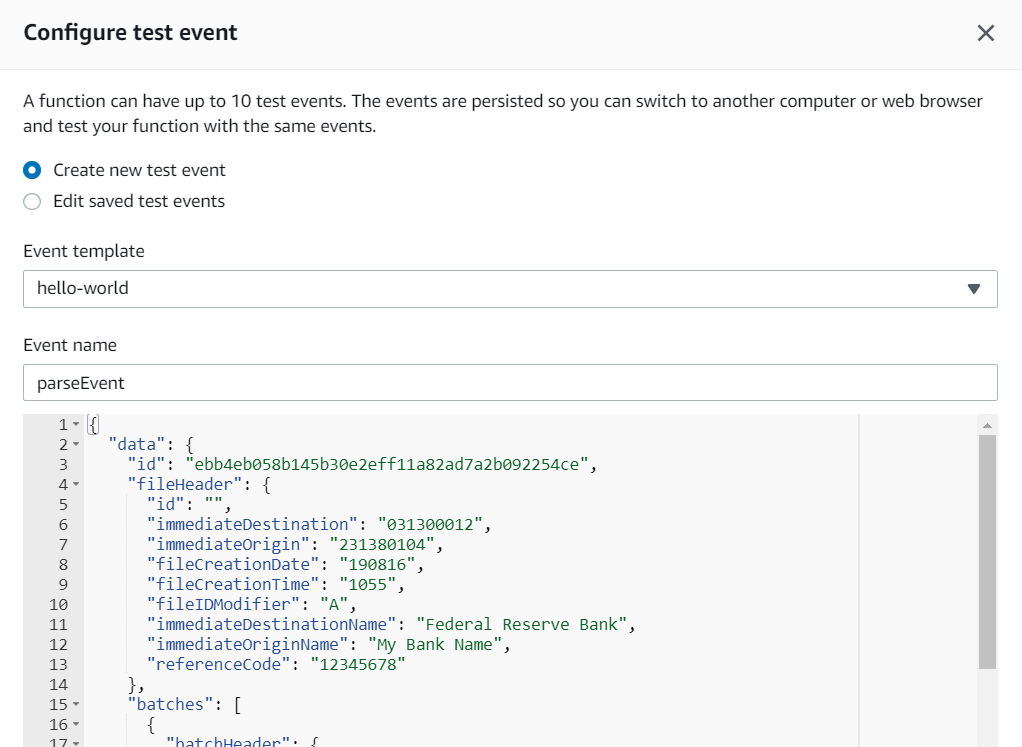
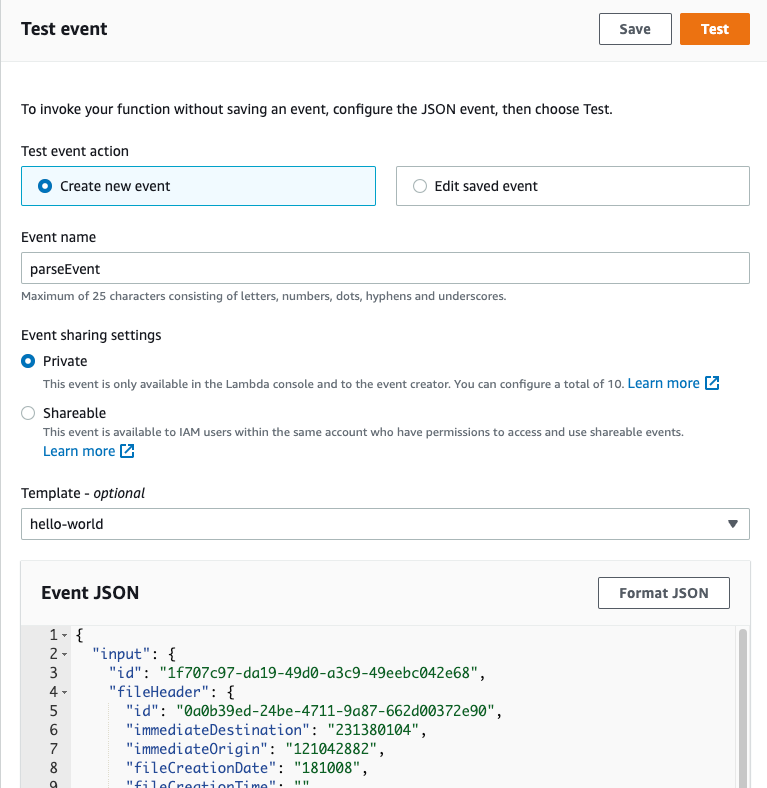
docs: clarified lambda_json_to_nacha example
- response from Lambda is stringified; wasn't obvious before this change

diff --git a/docs/aws/lambda/json_to_nacha/lambda_json_to_nacha.md b/docs/aws/lambda/json_to_nacha/lambda_json_to_nacha.md
@@ -23,15 +23,18 @@ package main
 
 import (
 	"bytes"
-	"context"
 
 	"github.com/aws/aws-lambda-go/lambda"
 	"github.com/moov-io/ach"
 	"github.com/moov-io/base"
 )
 
-type JsonParseEvent struct {
-	Json ach.File `json:"data"`
+type JsonRequest struct {
+	Json ach.File `json:"input"`
+}
+
+type JsonResponse struct {
+	Message string `json:"output"`
 }
 
 func main() {
@@ -39,9 +42,9 @@ func main() {
 }
 
 // logic to be executed when lambda starts goes here
-func HandleRequest(ctx context.Context, event JsonParseEvent) (string, error) {
+func HandleRequest(event JsonRequest) (JsonResponse, error) {
 
-	// get file from lambda event, it has already been marshaled from json to ach.File by Go
+	// get file from lambda event, it has already been marshalled from json to ach.File by Go
 	file := event.Json
 
 	// set file ID
@@ -50,7 +53,7 @@ func HandleRequest(ctx context.Context, event JsonParseEvent) (string, error) {
 	// validate parsed file
 	err := file.Validate()
 	if err != nil {
-		return "", err
+		return JsonResponse{Message: ""}, err
 	}
 
 	// create buffer to contain NACHA text
@@ -58,26 +61,28 @@ func HandleRequest(ctx context.Context, event JsonParseEvent) (string, error) {
 
 	// write ach.File to buffer
 	err = ach.NewWriter(buf).Write(&file)
-	if err != nil {
-		return buf.String(), err
-	}
 
-	// get NACHA text from buffer
-	parseRes := buf.String()
-
-	return parseRes, err
+	// marshal response to lambda as json
+	return JsonResponse{Message: buf.String()}, err
 }
 ```
 
 *`main()`* is invoked when the lambda is triggered <br/>
 *`HandleRequest()`* is the callback containing the business logic and accepts a lambda event as a parameter with the shape:
-```
+```json
 {
-    "data": { ...JSON representing ACH file }
+    "input": { ...JSON representing ACH file }
 }
 ```
-`JsonParseEvent` mirrors this shape and makes the contents accessible in `HandleRequest()`. This event can be changed to fit
-your needs, all you need to do is update the `JsonParseEvent` struct and make sure the trigger for this lambda is passing in the expected event.
+`JsonRequest` mirrors this shape and makes the contents accessible in `HandleRequest()`. This event can be changed to fit
+your needs, all you need to do is update the `JsonRequest` struct and make sure the trigger for this lambda is passing in the expected event.
+
+`JsonResponse` is used to encode the response to the caller.  The ACH file's data (a string) is the value of the `output` field of the response.
+```json
+{
+    "output": "[TEXT OF THE ACH FILE]"
+}
+```
 
 <br/><br/>
 ## 2. Build your file for AWS Lambda
@@ -122,7 +127,7 @@ Replace the contents of the code editor with the following:
 
 ```json
 {
-  "data": {
+  "input": {
     "id": "",
     "fileHeader": {
       "id": "",
@@ -201,7 +206,7 @@ Replace the contents of the code editor with the following:
 }
 ```
 
-This JSON will be handled by `HandleRequest()`. Note the top level `data` field which matches the shape we covered in step 1. Click *Create* at the bottom when you're finished making changes.
+This JSON will be handled by `HandleRequest()`. Note the top level `input` field which matches the shape we covered in step 1. Click *Create* at the bottom when you're finished making changes.
 
 Now create your second event, which is designed to cause an error while parsing so you can see how the function returns errors from Go code.  Create a new event with a different name (e.g. `parseEventError`) and modify the JSON.
 
@@ -209,7 +214,7 @@ Change the JSON above by setting immediateDestination to be an empty string. Thi
 
 ```
 {
-  "data": {
+  "input": {
     "id": "",
     "fileHeader": {
       "id": "",

diff --git a/docs/aws/lambda/nacha_to_json/lambda_nacha_to_json.md b/docs/aws/lambda/nacha_to_json/lambda_nacha_to_json.md
@@ -61,7 +61,7 @@ func HandleRequest(ctx context.Context, event NachaParseEvent) (NachaParseRespon
 		return NachaParseResponse{File: file}, err
 	}
 
-	//create response object
+	// create response object
 	parseRes := NachaParseResponse{File: file}
 
 	return parseRes, err
